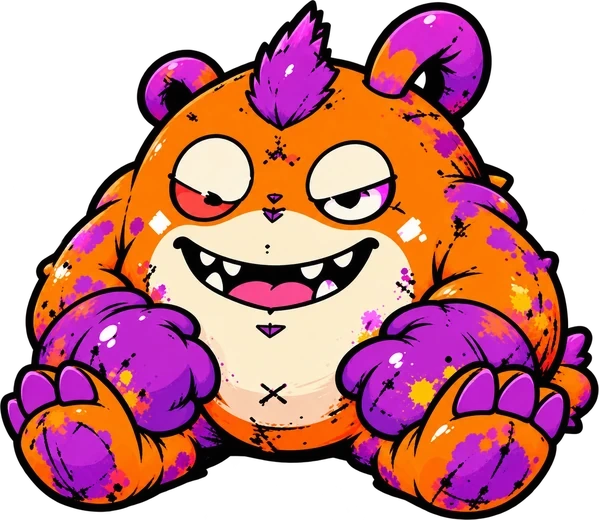
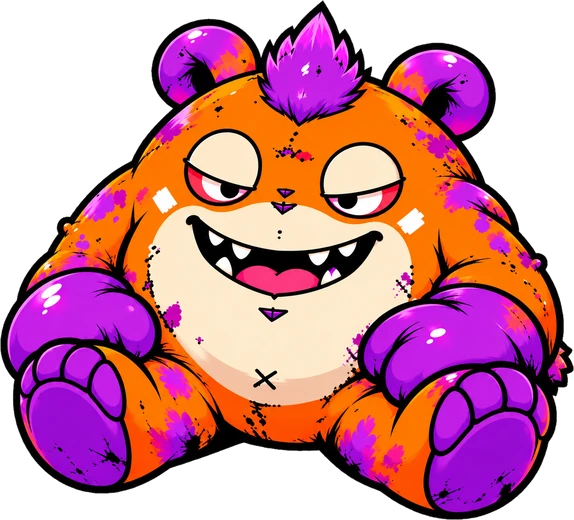
BUNK: new sitting pose
Claude-Session: https://claude.ai/code/session_01MXithgTc5umkveoyZShZHQ

diff --git a/design/bunk/poses/make_poses.py b/design/bunk/poses/make_poses.py
@@ -21,7 +21,7 @@ HEIGHT = 520
 
 
 # 2026-10-21 からの新しい絵(チェック柄が明るい灰色と白)。remove_checker_v2 で切り抜く
-NEW_ART = {'hungry', 'look'}
+NEW_ART = {'hungry', 'look', 'sit'}
 
 
 def remove_checker_v2(im: Image.Image) -> Image.Image:

diff --git a/design/bunk/README.md b/design/bunk/README.md
@@ -8,7 +8,7 @@
 - 腕を下ろした姿（ふつう）も新しい絵 `reference/bunk_down_v2.png` にした（2026-10-21）。正面を向いているので、顔ではなく足元で位置をそろえた（(14,16) ずらす）。パーツ分けは `reference/pose_down/split.json`（目のパーツも入れて、反転したときの目の位置に使う）。
 - 表情の顔（新しい絵）は `tools/build_bunk_faces_v2.py design/bunk/reference/pose_down/faces_v2.json` で作る。表情の絵は ふつうの絵と少しだけ大きさ・位置がちがうので、線が重なるように合わせてから、ちがう所（顔）だけ切り出す。
   - 2026-10-21：目を閉じた顔（`pose_down/v2_closed.png`）・怒った顔（`v2_angry.png`）・悲しい顔（`v2_sad.png`）・喜んだ顔（`v2_happy.png`）。表情は4つそろった。届いた表情から `faces_v2.json` の faces と `bunkMotion.json` の faces.names に足す。
-  - 新しい表情の顔は腕を下ろした姿（正面）に合わせているので、構えた姿ではまばたきしない。反応の顔を出すときは腕を下ろした姿になる（`facesOnlyDown`）。お世話画面の6つの姿は、とどくまで前の絵のまま。とどいた姿は `design/bunk/poses/<名前>.png` に置いて `python3 design/bunk/poses/make_poses.py <名前>` で作り直す（前の絵は `<名前>_v1.png`）。新しい絵は `NEW_ART` に入れる（明るいチェック柄の消し方）。2026-10-21：おなかすいた（hungry）・見回す（look）。
+  - 新しい表情の顔は腕を下ろした姿（正面）に合わせているので、構えた姿ではまばたきしない。反応の顔を出すときは腕を下ろした姿になる（`facesOnlyDown`）。お世話画面の6つの姿は、とどくまで前の絵のまま。とどいた姿は `design/bunk/poses/<名前>.png` に置いて `python3 design/bunk/poses/make_poses.py <名前>` で作り直す（前の絵は `<名前>_v1.png`）。新しい絵は `NEW_ART` に入れる（明るいチェック柄の消し方）。2026-10-21：おなかすいた（hungry）・見回す（look）・おすわり（sit）。
 
 以下は前の絵のときの記録。
 
